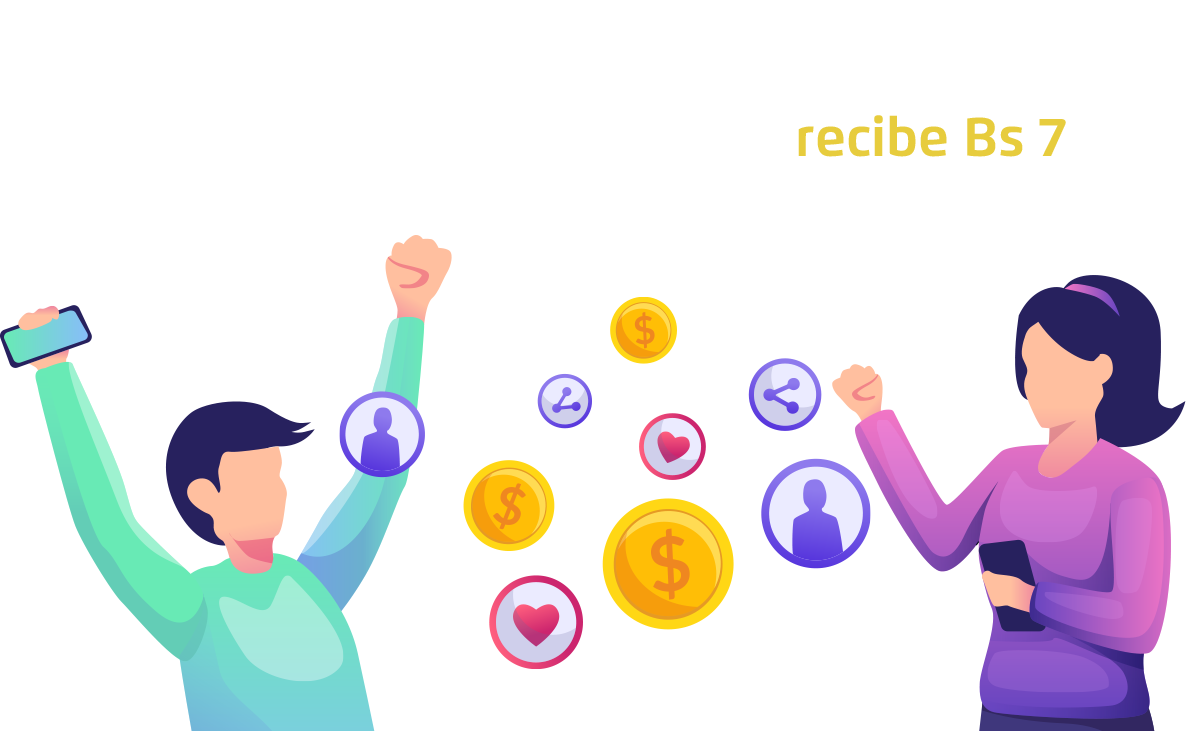
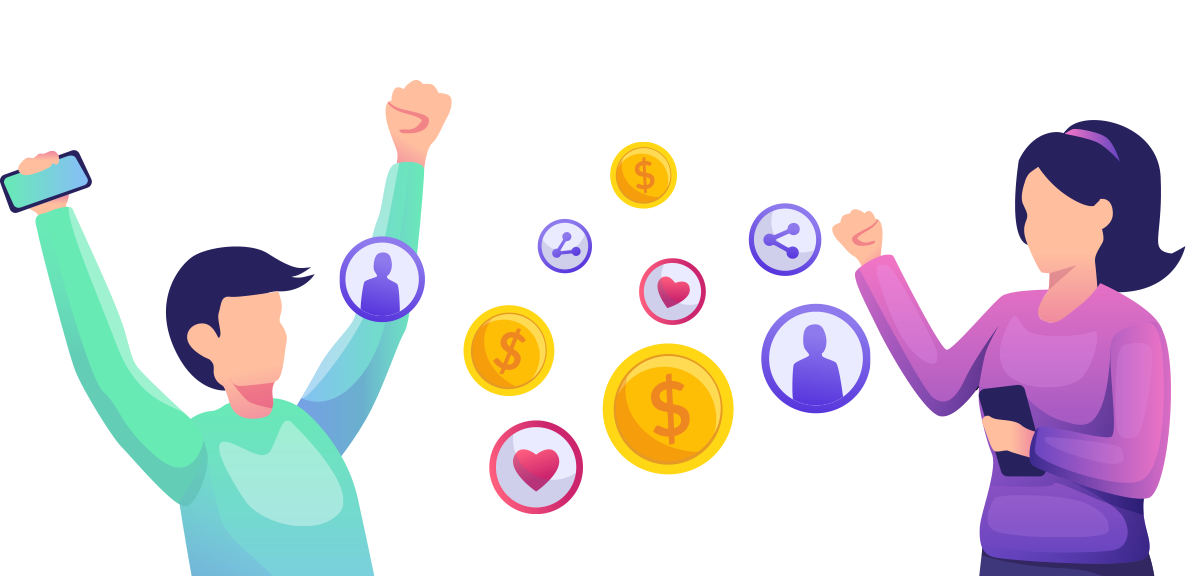
actualizacion referidos

Changed region(s): [[0.0, 0.125, 0.9867, 1.0], [0.4933, 0.25, 0.5858, 0.375], [0.8017, 0.9375, 0.8325, 0.9688]]

diff --git a/solipromociones/soli_invita_a_tus_amigos.html b/solipromociones/soli_invita_a_tus_amigos.html
@@ -177,8 +177,7 @@
                     <img loading="lazy" alt="Solisocios, Gana dinero invitando a tus amigos con Soli" title="Solisocios, Gana dinero invitando a tus amigos con Soli" class="logo_amigos wow zoomIn " data-wow-duration="2s" src="../assets/img/referido-transparente-completo.png" /><br>
                     <span class=" up-45 txt2-banner text-white font-weight-bold mt-30">Promoción disponible para Android</span><br>
                     <a id="descarga_android_solimegate" target="_blank" href="https://play.google.com/store/apps/details?id=com.bcp.bo.wallet&referrer=utm_source%3Dp%25C3%25A1gina_web%26utm_medium%3Dp%25C3%25A1gina_web%26utm_term%3Dp%25C3%25A1gina_web%26utm_content%3Dp%25C3%25A1gina_web%26utm_campaign%3Dp%25C3%25A1gina_web">
-                        <img loading="lazy" style="height: 75px;" class="download_desktop btn-banner" src="../assets/img/soli-05.svg" alt="Soli es una billetera móvil que te permite abrir una cuenta con tu número celular en tan solo 30 segundos desde la play store" title="Soli es una billetera móvil que te permite abrir una cuenta con tu número celular en tan solo 30 segundos desde la play store">
-                        <img loading="lazy" class="download_phone btn-banner" src="../assets/img/soliapp-07.svg" alt="Soli es una billetera móvil que te permite abrir una cuenta con tu número celular en tan solo 30 segundos desde la play store" title="Soli es una billetera móvil que te permite abrir una cuenta con tu número celular en tan solo 30 segundos desde la play store">
+                        <img loading="lazy" class="btn-banner" src="../assets/img/soliapp-07.svg" alt="Soli es una billetera móvil que te permite abrir una cuenta con tu número celular en tan solo 30 segundos desde la play store" title="Soli es una billetera móvil que te permite abrir una cuenta con tu número celular en tan solo 30 segundos desde la play store">
                     </a>
                     <div class="hide_phone">
                         <p class="text-white font-size-20" data-split-text="true" data-split-options='{ "type": "lines" }'>
@@ -194,7 +193,7 @@
             <div class="row">
                 <div class="col-md-offset-4 col-md-4">
     <!--                <img src="https://i.gifer.com/1pMW.gif">-->
-                    <h1 class="h1_amigos mb-4 mt-4 text-center bariol_regular_bold_title" style="line-height: 50px !important;font-size: -webkit-xxx-large !important;">Invita a tus amigos 🤜🤛 <br> a usar <img src="../assets/img/logo_plus.png" width="15%"> <br> y GANA DINERO 🤑</h1>
+                    <h1 class="h1_amigos mb-4 mt-4 text-center bariol_regular_bold_title" style="line-height: 50px !important;font-size: -webkit-xxx-large !important;">Invita a tus amigos <br>🤜🤛 <br> a usar <img src="../assets/img/logo_plus.png" width="15%"> <br> y GANA DINERO 🤑</h1>
                 </div>
             </div>
         </div>
